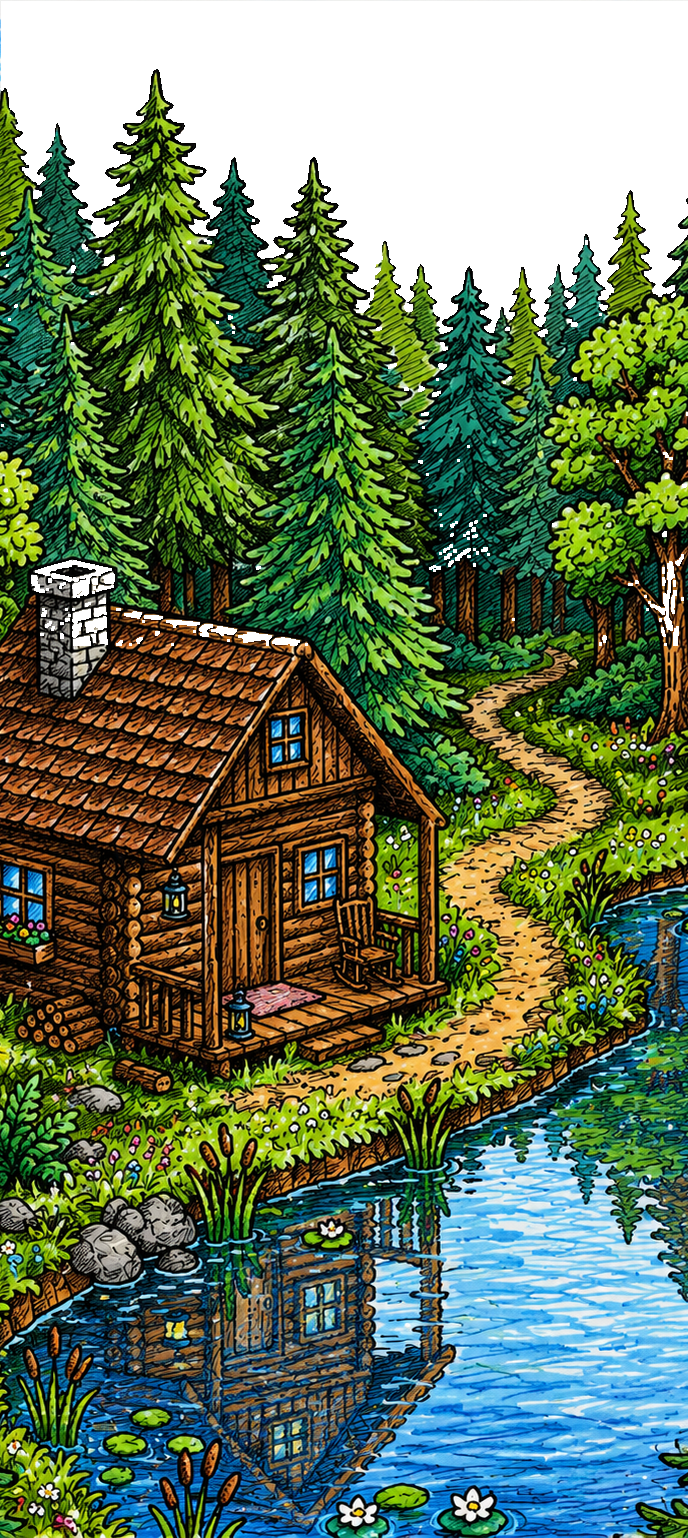
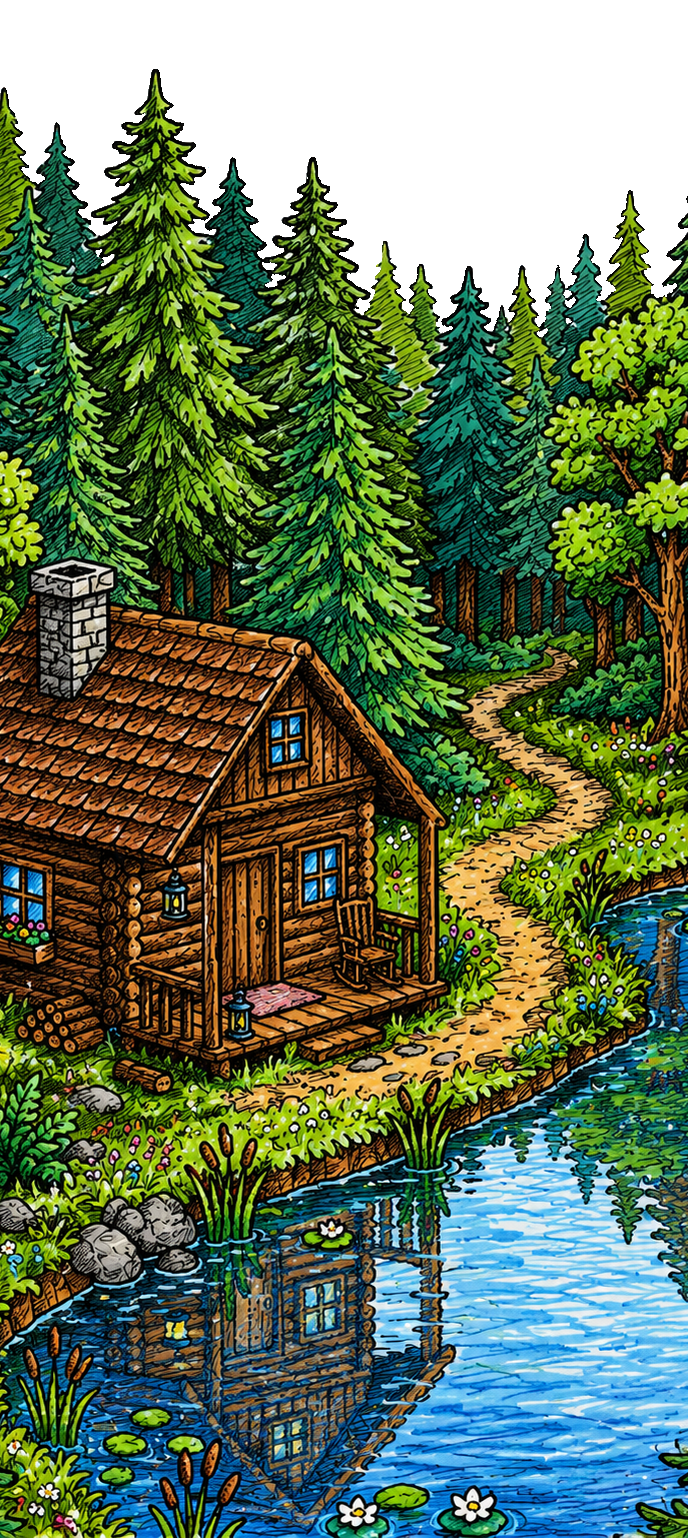
Mureta com 19 artes + zonas POR ARTE (a marcacao da cabana doodle)
MURETA 4 -> 19 artes (16 novas que ele subiu). Recorte inicial no
automatico com tools/recorta_lote.py, que e a regra que eu vinha
aplicando no olho: tenta pela COR e, se o corte sair absurdo, herda a
mascara de uma arte de referencia. 8 cairam na mascara (bordado,
ceramica, giz, pontilhismo, tapecaria, van gogh, fauvismo, imp. alemao -
estilo texturizado nao tem "cor de ceu" pra separar).

ZONAS POR ARTE, que e o que faz a marcacao dele render numa arte so:
quando a pasta da arte tem zonas.png/json, elas MANDAM sobre as da cena.
Existe porque arte re-gerada muda o enquadramento - a cabana doodle bate
so 0.58 com a base, entao a zona da cena punha o pingo no lugar errado.
A marcacao que ele fez da cabana doodle entrou por aqui: 255 pts de pingo
solido e 1577 de agua, no lugar dos 2875/12398 herdados da cena.

Ferramenta nova tools/marca_para_cena.py: a marcacao dele e feita em cima
da arte ORIGINAL (1023x1537 no doodle), mas o motor roda a arte encaixada
por COVER na cena (688x1538) - redimensionar sem repetir o corte
deslocaria tudo em 168 px de cada lado. Agora passa pela mesma
transformacao.

diff --git a/android-app/app/src/main/java/com/atmosfera/wallpaper/engine/EffectEngine.kt b/android-app/app/src/main/java/com/atmosfera/wallpaper/engine/EffectEngine.kt
@@ -165,14 +165,25 @@ class EffectEngine(val estado: SceneState = SceneState()) {
         ceu = if (cenaCfg.ceuMovel == null) null else
             baixado(dCena, "ceu") ?: try { bmp(cenaCfg.prefixo + "ceu.png") } catch (e: Exception) { null }
         ceuOff = 0f
-        extrairZonas(baixado(dCena, "zonas") ?: bmp(cenaCfg.prefixo + "zonas.png"))
+        // ZONAS POR ARTE: arte com enquadramento próprio (a cabana doodle bate
+        // só 0.58 com a base) não pode usar a zona da CENA — o pingo cairia no
+        // lugar errado. Se a pasta da arte tem zonas, ela MANDA.
+        val zonasArte = baixado(dArte, "zonas")
+            ?: try { bmp(fp + "zonas.png") } catch (e: Exception) { null }
+        extrairZonas(zonasArte ?: baixado(dCena, "zonas") ?: bmp(cenaCfg.prefixo + "zonas.png"))
         carregarProf(baixado(dCena, "profundidade")
             ?: try { bmp(cenaCfg.prefixo + "profundidade.png") } catch (e: Exception) { null })
         // luzes e saída de fumaça da MARCAÇÃO da cena (cena sem isso cai nas
         // constantes da cabana no Atlas — ver Marcacao.kt)
-        val zonasBaixado = dCena?.let { File(it, "zonas.json") }?.takeIf { it.exists() }
-        marca = if (zonasBaixado != null) DadosMarcacao.ler(zonasBaixado.readText())
-                else DadosMarcacao.ler(assets, cenaCfg.prefixo)
+        val zonasBaixado = (dArte?.let { File(it, "zonas.json") }?.takeIf { it.exists() }
+            ?: dCena?.let { File(it, "zonas.json") }?.takeIf { it.exists() })
+        // mesma precedência do zonas.png: a marcação da ARTE ganha da cena
+        val marcaArte = if (zonasArte != null) DadosMarcacao.ler(assets, fp) else DadosMarcacao.VAZIO
+        marca = when {
+            zonasBaixado != null -> DadosMarcacao.ler(zonasBaixado.readText())
+            marcaArte !== DadosMarcacao.VAZIO -> marcaArte
+            else -> DadosMarcacao.ler(assets, cenaCfg.prefixo)
+        }
         // estado dependente da cena/dimensões
         clouds.clear(); drops.clear(); flakes.clear(); impacts.clear()
         brilhos.clear(); puffsVulcao.clear(); puffVulcAcc = 0f

diff --git a/android-app/app/src/main/java/com/atmosfera/wallpaper/engine/Cenario.kt b/android-app/app/src/main/java/com/atmosfera/wallpaper/engine/Cenario.kt
@@ -546,6 +546,21 @@ object Cenas {
                 "pixel" to VarFundo("cenas/mureta/pixel/", 1),
                 "pixel2" to VarFundo("cenas/mureta/pixel2/", 1),
                 "pixel16" to VarFundo("cenas/mureta/pixel16/", 1),
+                "bordado" to VarFundo("cenas/mureta/bordado/", 1),
+                "ceramica" to VarFundo("cenas/mureta/ceramica/", 1),
+                "ceramica2" to VarFundo("cenas/mureta/ceramica2/", 1),
+                "clay" to VarFundo("cenas/mureta/clay/", 1),
+                "clay2" to VarFundo("cenas/mureta/clay2/", 1),
+                "cozy" to VarFundo("cenas/mureta/cozy/", 1),
+                "fauvismo" to VarFundo("cenas/mureta/fauvismo/", 1),
+                "giz" to VarFundo("cenas/mureta/giz/", 1),
+                "impalemao" to VarFundo("cenas/mureta/impalemao/", 1),
+                "impress" to VarFundo("cenas/mureta/impress/", 1),
+                "lowpoly" to VarFundo("cenas/mureta/lowpoly/", 1),
+                "point" to VarFundo("cenas/mureta/point/", 1),
+                "simpsons" to VarFundo("cenas/mureta/simpsons/", 1),
+                "tapecaria" to VarFundo("cenas/mureta/tapecaria/", 1),
+                "vangogh" to VarFundo("cenas/mureta/vangogh/", 1),
                 // xilogravura: veio dele em CAMADAS separadas por profundidade
                 // (céu/colinas/árvore/muro/primeiro plano). As camadas têm vãos
                 // retangulares — não fecham a imagem —, então usei a composta e
